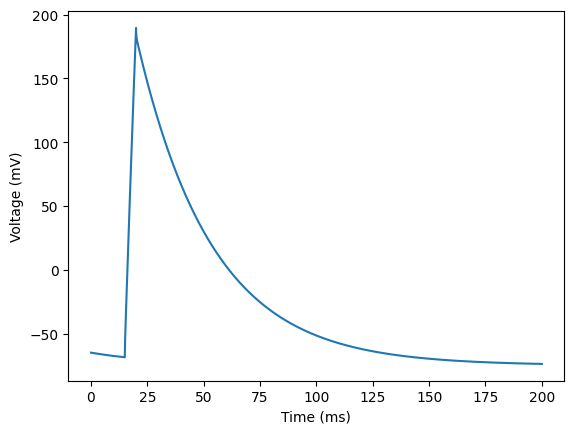
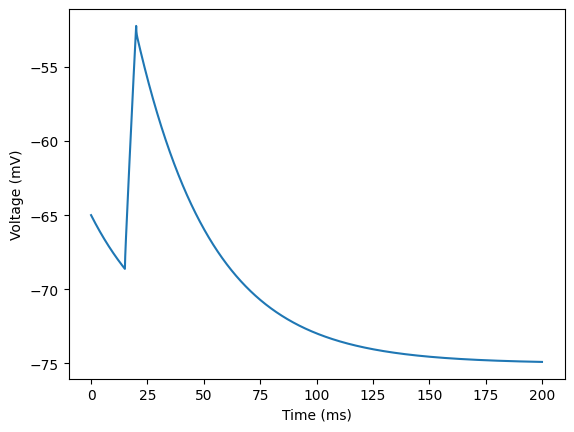
quickstart: lower level in step amplitude

diff --git a/README.rst b/README.rst
@@ -58,7 +58,7 @@ The following example shows how to create a cell, add a stimulus and run a simul
     from bluecellulab import Simulation
 
     cell = create_ball_stick()
-    stimulus = cell.add_step(start_time=15.0, stop_time=20.0, level=1.5)
+    stimulus = cell.add_step(start_time=15.0, stop_time=20.0, level=0.1)
     sim = Simulation()
     sim.add_cell(cell)
 
